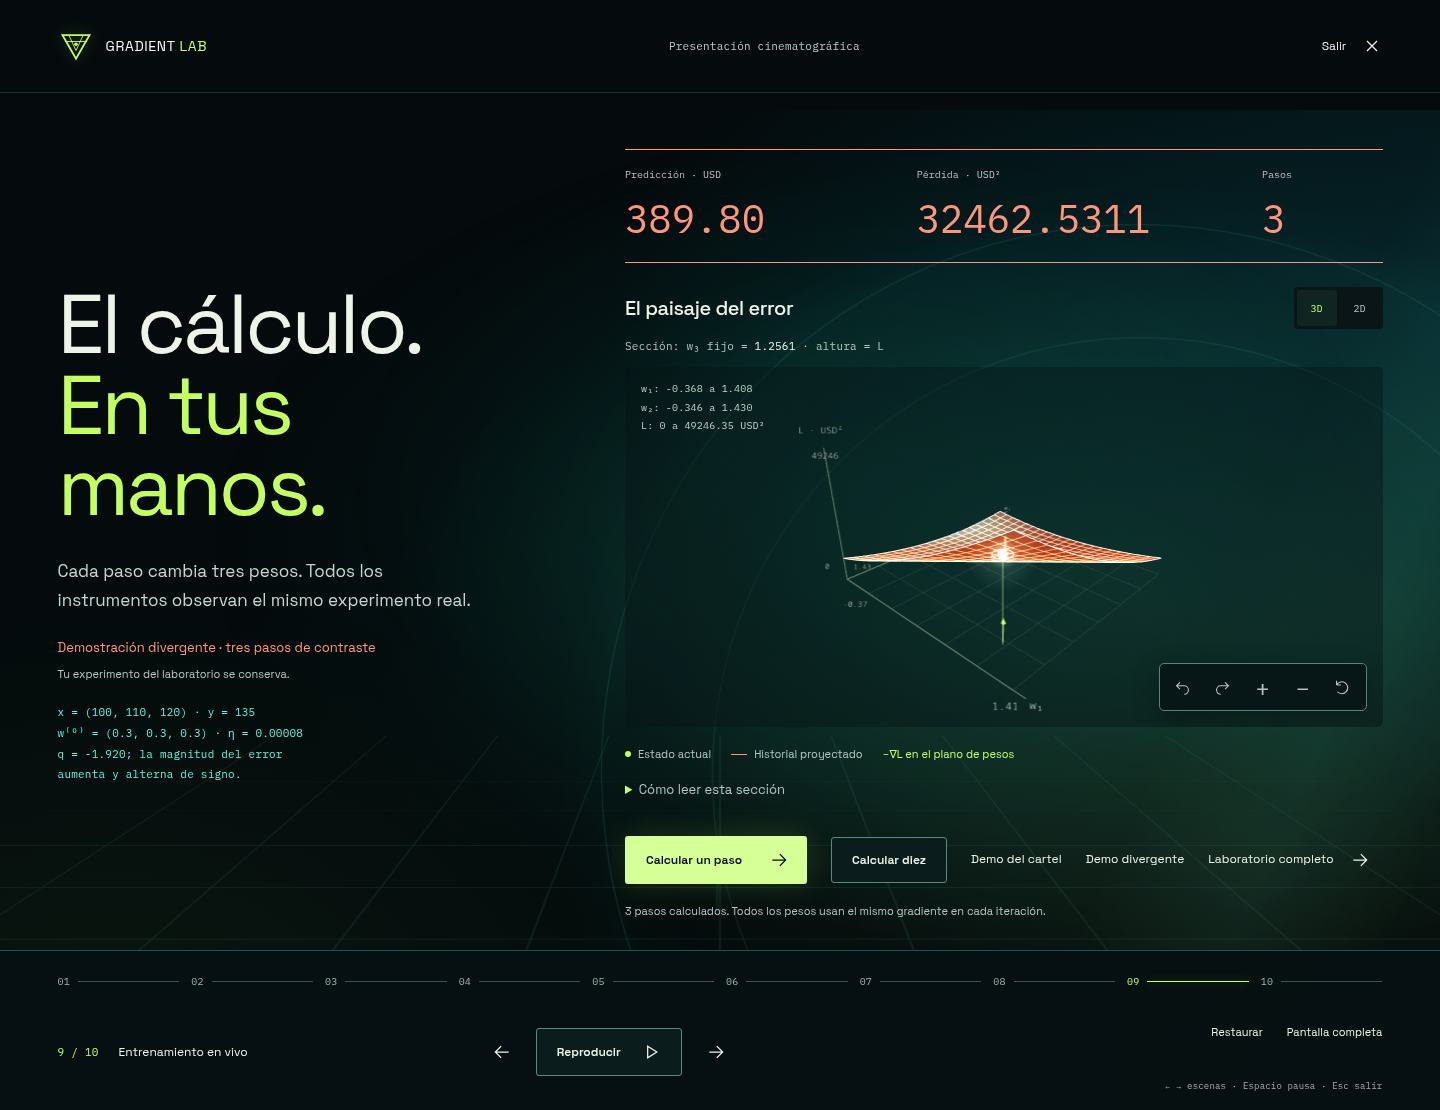
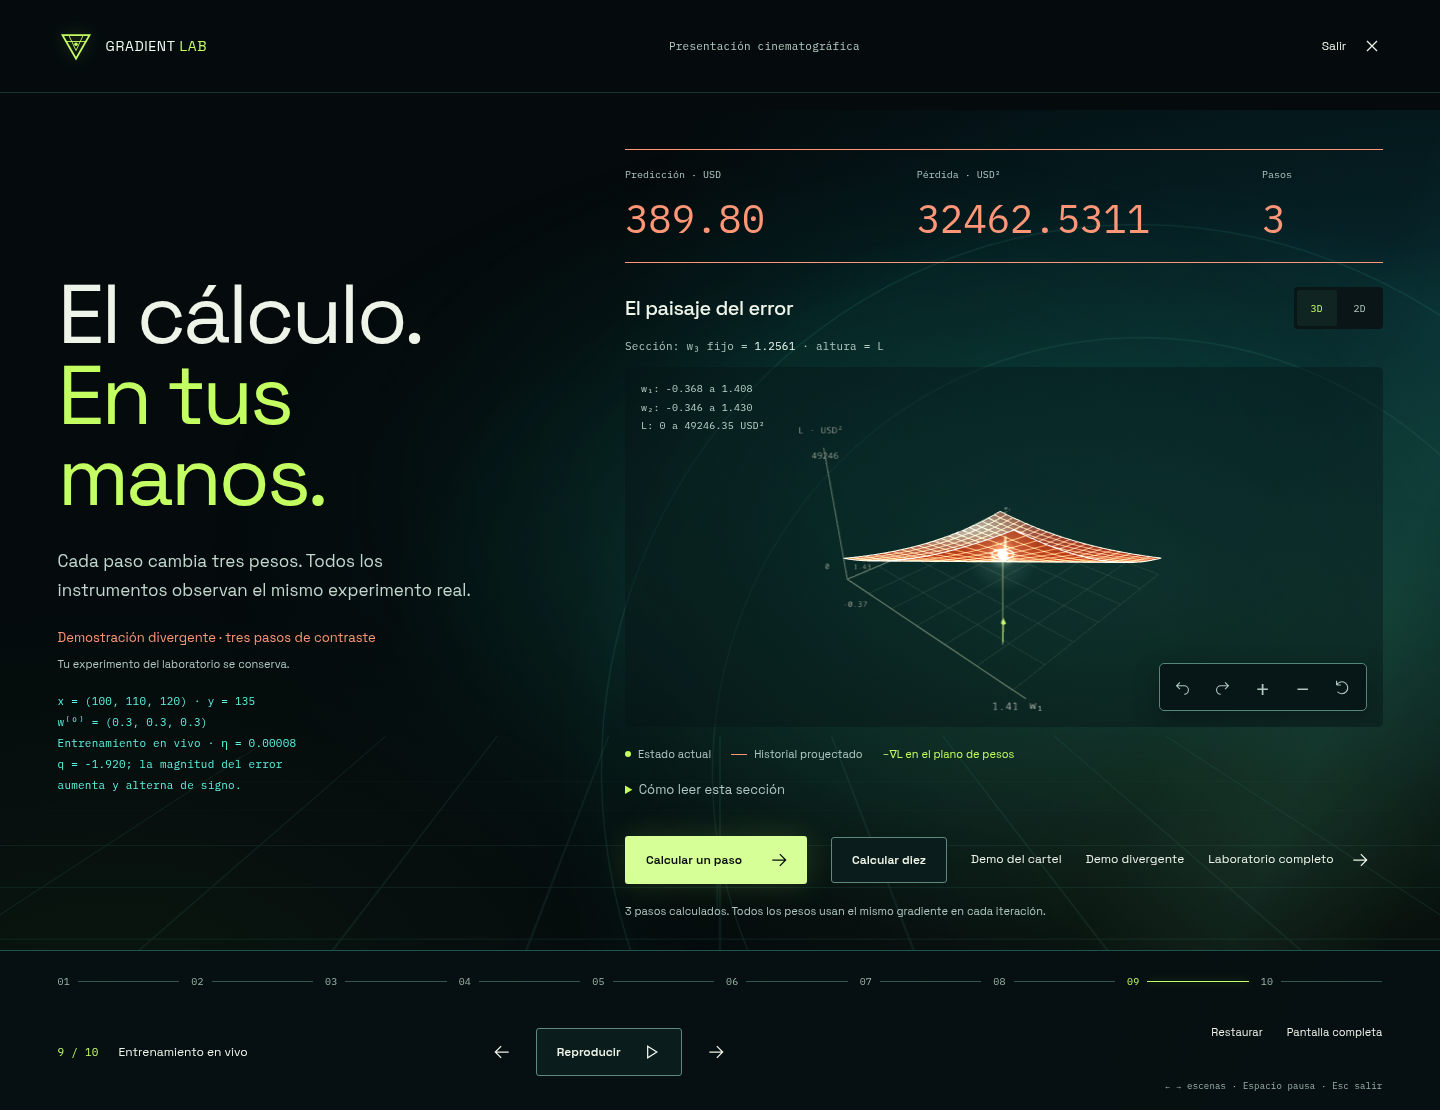
fix: distingue la tasa ilustrada del contraste divergente

Changed region(s): [[0.0312, 0.245, 0.3438, 0.7045]]

diff --git a/src/components/Cinema.tsx b/src/components/Cinema.tsx
@@ -106,7 +106,7 @@ export function Cinema({ state, dispatch }: { state: Simulation; dispatch: Dispa
         <p>{scene === 0 ? 'Una predicción, un error y una dirección. Entra en el cálculo que permite aprender a una neurona.' : scene === 8 ? 'Cada paso cambia tres pesos. Todos los instrumentos observan el mismo experimento real.' : scene === 9 ? demo?.preset === 'divergent' ? 'Una tasa excesiva amplifica el error. La divergencia también se calcula, paso a paso.' : 'Con la tasa del cartel, una iteración reduce la pérdida. Cambiar el paso puede cambiar el resultado.' : chapter!.idea}</p>
         {demo && <p className="cinema-demo-status" data-testid="demo-mode">{demo.preset === 'stable' ? 'Demostración del cartel · un paso estable' : scene < 8 ? 'Demostración divergente · primero, el caso del cartel' : 'Demostración divergente · tres pasos de contraste'}<span>Tu experimento del laboratorio se conserva.</span></p>}
         {scene === 0 && <div className="cinema-demo-start"><p>Desde los parámetros originales, sin cambiar tu laboratorio.</p><button type="button" className="button secondary" aria-label="Iniciar demostración del cartel" onClick={() => startDemo('stable')}>Demostrar el cartel<Arrow/></button><button type="button" className="text-button" aria-label="Iniciar demostración divergente" onClick={() => startDemo('divergent')}>Demostrar divergencia<Arrow/></button></div>}
-        {demo && (scene === 0 || scene === 8) && <p className="cinema-demo-parameters mono" data-testid="demo-parameters">x = ({DEFAULT_EXAMPLE.inputs.join(', ')}) · y = {DEFAULT_EXAMPLE.target}<br/>w⁽⁰⁾ = ({DEFAULT_EXAMPLE.weights.join(', ')}) · η = {training.config.eta}<br/>{demo.preset === 'stable' ? `${number(initial.prediction, 0)} → ${number(adjusted.prediction)} USD; observa la pérdida en un paso.` : `q = ${number(condition.factor, 3)}; la magnitud del error aumenta y alterna de signo.`}</p>}
+        {demo && (scene === 0 || scene === 8) && <p className="cinema-demo-parameters mono" data-testid="demo-parameters">x = ({DEFAULT_EXAMPLE.inputs.join(', ')}) · y = {DEFAULT_EXAMPLE.target}<br/>w⁽⁰⁾ = ({DEFAULT_EXAMPLE.weights.join(', ')})<br/>{scene === 0 ? 'Caso del cartel' : 'Entrenamiento en vivo'} · η = {scene === 0 ? DEFAULT_EXAMPLE.eta : training.config.eta}<br/>{demo.preset === 'stable' ? `${number(initial.prediction, 0)} → ${number(adjusted.prediction)} USD; observa la pérdida en un paso.` : scene === 0 ? `El contraste de la escena 9 usará η = ${training.config.eta}.` : `q = ${number(condition.factor, 3)}; la magnitud del error aumenta y alterna de signo.`}</p>}
         {chapter && <><Formula>{chapter.formula}</Formula><p className="cinema-note">{chapter.note}</p></>}
         {scene === 0 && <div className="cinema-opening-values"><div><span>Predicción inicial</span><strong>{number(initial.prediction, 0)}</strong><small>USD</small></div><div><span>Pérdida inicial</span><strong>{number(initial.loss, 0)}</strong><small>USD²</small></div></div>}
         {scene === 9 && <><div className="cinema-conclusion"><strong>{number(Math.abs(reduction))}<small>%</small></strong><span>{reduction < 0 ? "más pérdida" : "menos pérdida"} en {resultHistory.length - 1} {resultHistory.length === 2 ? "iteración" : "iteraciones"}</span></div><p className="cinema-note">Mejorar este dato no demuestra generalización. Los precios son hipotéticos; no hay cotizaciones ni predicciones financieras reales.</p><div className="cinema-credits"><span>Hanniel Cardoso Jaramillo<br/>Angel Joseph Estrada Santos</span><span>UNAM · Facultad de Ingeniería<br/>Cálculo Vectorial · Grupo 13 · 2027-1</span></div><div className="cinema-source-links"><a href="#/fundamentos">Fuentes y fundamentos<Arrow/></a><a href={cartelUrl} target="_blank" rel="noreferrer">Cartel original<Arrow/></a></div></>}

diff --git a/tests/refinement.spec.ts b/tests/refinement.spec.ts
@@ -87,6 +87,7 @@ test('la demo divergente muestra el crecimiento real y una conclusión identific
   await page.goto('#/presentacion');
   await page.clock.install();
   await page.getByRole('button', { name: 'Iniciar demostración divergente' }).click();
+  await expect(page.getByTestId('demo-parameters')).toContainText('Caso del cartel · η = 0.00001');
   await page.getByRole('button', { name: 'Escena 9: Entrenamiento en vivo' }).click();
   await expect(page.getByTestId('demo-mode')).toContainText('divergente');
   await expect(page.getByTestId('demo-parameters')).toContainText('0.00008');

diff --git a/docs/VISUAL_V3_RC.md b/docs/VISUAL_V3_RC.md
@@ -46,7 +46,7 @@ La cadencia rAF **no mide FPS efectivos de GPU**. La entrada mejora en estas mue
 
 Datos íntegros: [antes](visual-v3/rc/before/performance.json) y [después](visual-v3/rc/after/performance.json). El JSON aclara el ajuste posterior de posición de la clave de ejes, que no cambia materiales/DPR. Tamaños finales gzip se adjuntan al JSON de después. El chunk Three.js conserva el aviso de Vite por superar 500 kB sin comprimir y sigue diferido.
 
-Recursos finales gzip, mismo método local (nivel 6): JS inicial 92,568 → 92,774 B; CSS 18,056 → 18,122 B; escena diferida 251,556 → 251,698 B; Cinema diferido 3,283 → 3,974 B. El aumento inicial de esta pasada es **272 B gzip (0.25 %)**. Los nombres y tamaños completos están en `finalBundles` del JSON.
+Recursos finales gzip, mismo método local (nivel 6): JS inicial 92,568 → 92,774 B; CSS 18,056 → 18,122 B; escena diferida 251,556 → 251,698 B; Cinema diferido 3,283 → 4,023 B. El aumento inicial de esta pasada es **272 B gzip (0.25 %)**. Los nombres y tamaños completos están en `finalBundles` del JSON.
 
 ## Evidencia visual
 
@@ -75,3 +75,5 @@ Validación manual preparada para el expositor:
 5. Pendiente de la validación humana: equipo de exposición con GPU física, móvil físico y navegador objetivo. No se garantiza ausencia absoluta de errores ni 60 FPS a partir de pruebas automatizadas.
 
 El formulario y la animación de cifras fueron verificados sin modificar el motor. Space Grotesk mantiene su excepción intencional ya documentada; no se añadieron supresiones ni se ejecutaron auditorías globales repetidas.
+
+Aclaración final: en una demo divergente, la introducción indica «Caso del cartel · η = 0.00001» junto al gráfico estable y anuncia η=0.00008 para el contraste de la escena 9. La regresión falló antes de aclararlo y pasó en ambas pantallas después (2/2); [captura de la introducción divergente](visual-v3/rc/after/demo-intro-390.png). No se modifican operaciones ni guion.
